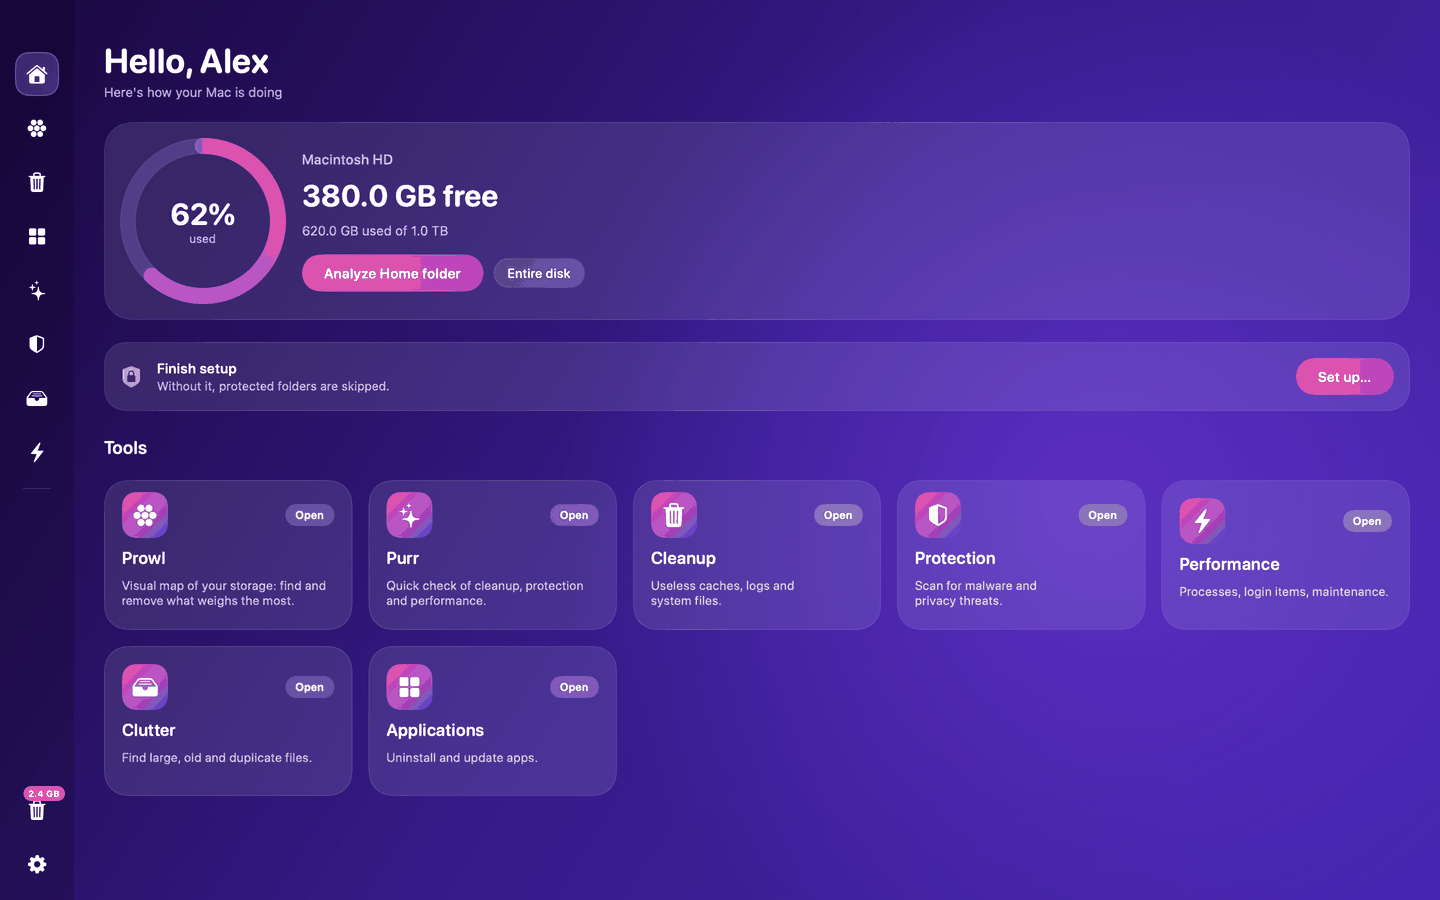
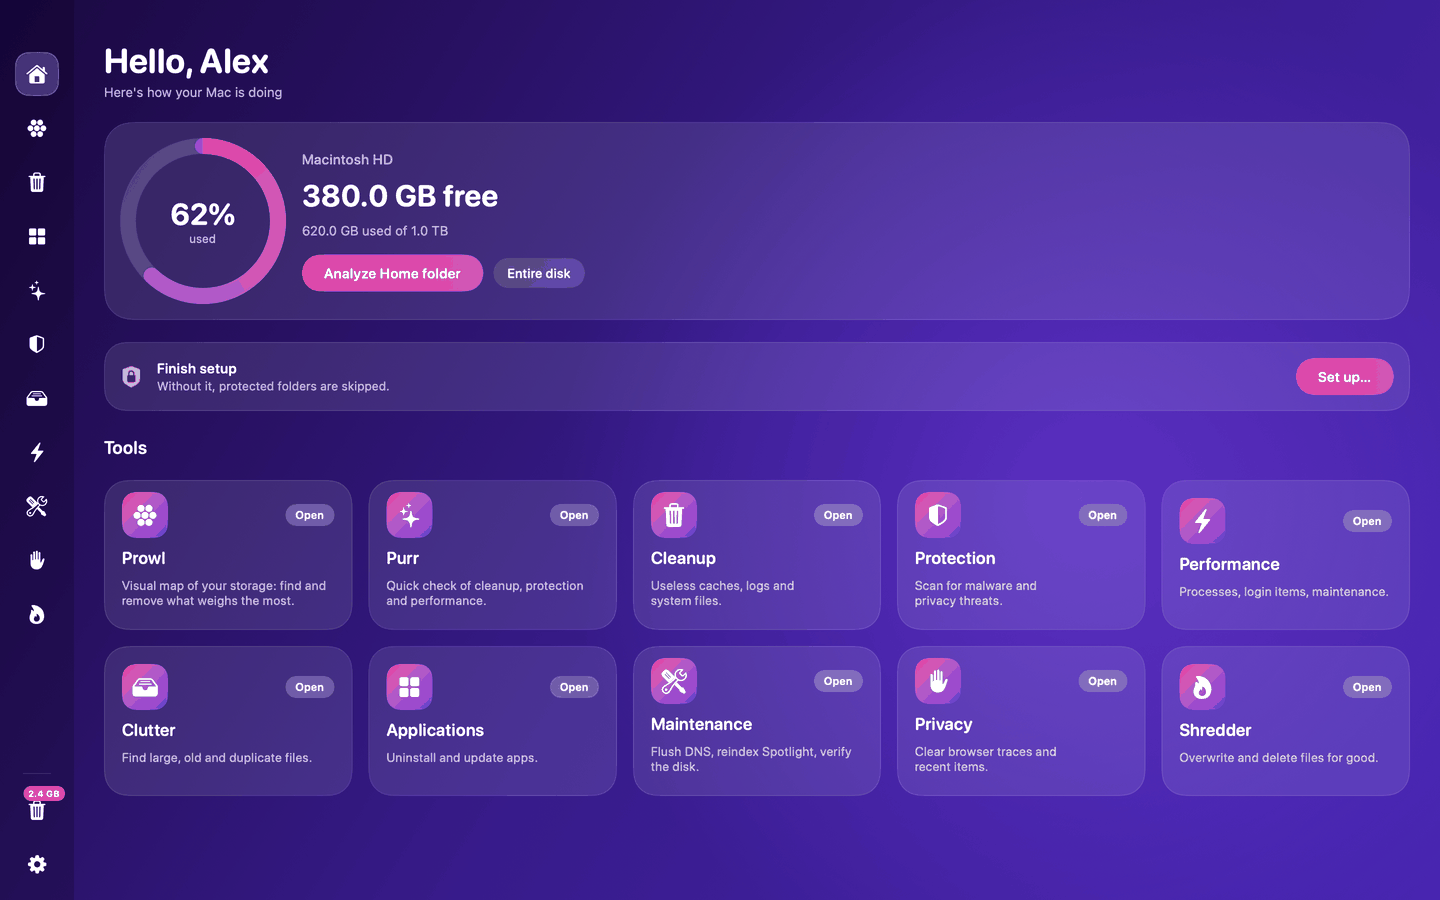
docs: regenerate screenshots, add Maintenance, Privacy and Shredder

diff --git a/README.md b/README.md
@@ -40,6 +40,14 @@ Mac cleaners are useful, but the good ones are paid, closed, and ask for deep ac
     <td><img src="assets/screenshots/08-protection.png" alt="Protection"></td>
     <td><img src="assets/screenshots/09-settings.png" alt="Settings"></td>
   </tr>
+  <tr>
+    <td><img src="assets/screenshots/10-maintenance.png" alt="Maintenance"></td>
+    <td><img src="assets/screenshots/11-privacy.png" alt="Privacy"></td>
+  </tr>
+  <tr>
+    <td><img src="assets/screenshots/12-shredder.png" alt="Shredder"></td>
+    <td></td>
+  </tr>
 </table>
 
 The screenshots use made-up demo data.
